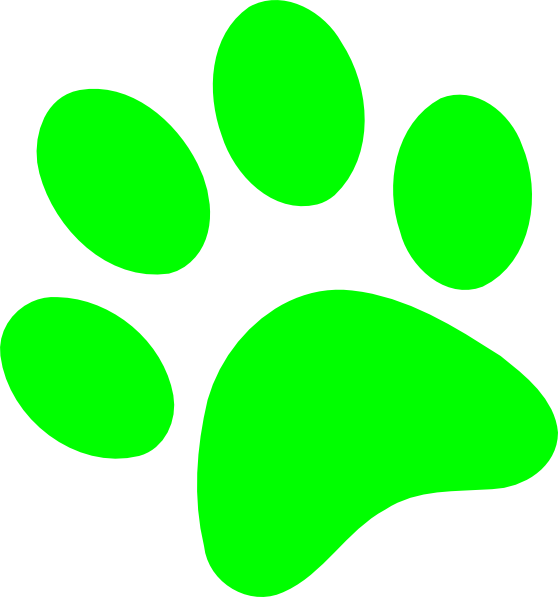
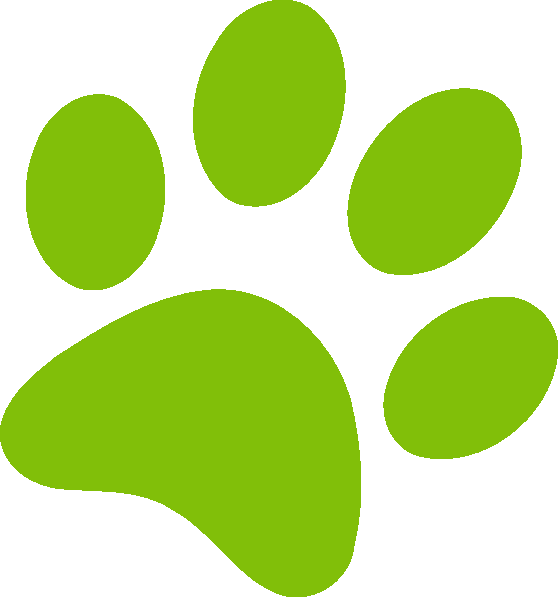
Update: alert styling

diff --git a/server/public/views/templates/home.html b/server/public/views/templates/home.html
@@ -1,26 +1,25 @@
 <div class="container container-fluid card" ng-if="pc.petsService.currentPet.data.description">
-  <span class="toaster" ng-show="showMe">
-    <p>
-      <a ng-click="showMe = false" href="">X</a> Added a pet to your saved pets!</p>
+  <span class="alert alert-success" ng-show="showMe">
+    <p>Added a pet to your saved pets!  <a ng-click="showMe = false" href="" class="close"><i class="fa fa-times"></i></a></p>
   </span>
   <div class="row">
-    <div class="mx-auto text-center" ng-click="PetService.showMore = !PetService.showMore;">
+    <div class="mx-auto text-center img-fluid" ng-click="PetService.showMore = !PetService.showMore;">
       <h2 id="name">{{pc.petsService.currentPet.data.name}}</h2>
-      <img id="mainPhoto" ng-if="pc.petsService.currentPet.photos[0].x" ng-src={{pc.petsService.currentPet.photos[0].x}} />
-      <img id="mainPhoto" ng-if="!pc.petsService.currentPet.photos[0].x" src="assets/images/cat-silhouette.png" />
+      <img class="img-fluid" id="mainPhoto" ng-if="pc.petsService.currentPet.photos[0].x" ng-src={{pc.petsService.currentPet.photos[0].x}} />
+      <img class="img-fluid" id="mainPhoto" ng-if="!pc.petsService.currentPet.photos[0].x" src="assets/images/cat-silhouette.png" />
     </div>
   </div>
   <div id="pawPrints" class="row">
     <div class="mx-auto" id="redPaw">
       <div class="col">
-        <img ng-click="pc.hidePet(pc.petsService.currentPet.data.id); showMe = false" alt="pass" class="img-fluid flip-horizontal"
+        <img ng-click="pc.hidePet(pc.petsService.currentPet.data.id); showMe = false" alt="pass" class="img-fluid"
           src="assets/images/red-paw.png" />
       </div>
     </div>
     <div class="mx-auto" id="greenPaw">
       <div class="col">
         <img ng-click="pc.lovePet(pc.petsService.currentPet.data.id, pc.petsService.currentPet.data.name); showMe = true" alt="save"
-          class="img-fluid flip-horizontal" src="assets/images/green-paw.png" />
+          class="img-fluid" src="assets/images/green-paw.png" />
       </div>
     </div>
   </div>

diff --git a/server/public/styles/style.css b/server/public/styles/style.css
@@ -30,10 +30,12 @@
 #redPaw img{
   max-height: 100px;
   padding: 5px;
+  cursor: pointer;
 }
 #greenPaw img{
   max-height: 100px;
   padding: 5px;
+  cursor: pointer;
 }
 .flip-horizontal { -webkit-transform: matrix(-1, 0, 0, 1, 0, 0) }
 
@@ -185,11 +187,6 @@ li a:hover {
 
 /* HOME */
 
-.toaster{
-  margin: 5px;
-  padding-left: 10px; 
-  background-color: rgba(76, 173, 79, .1);
-}
 
 .toaster a {
   font-weight: bold;
@@ -197,8 +194,13 @@ li a:hover {
   text-decoration: none;
 }
 
+a .fa-times{
+  color: #155724;
+}
+
 #mainPhoto{
   margin: 10px;
+  cursor: pointer;
 }
 
 .information{
